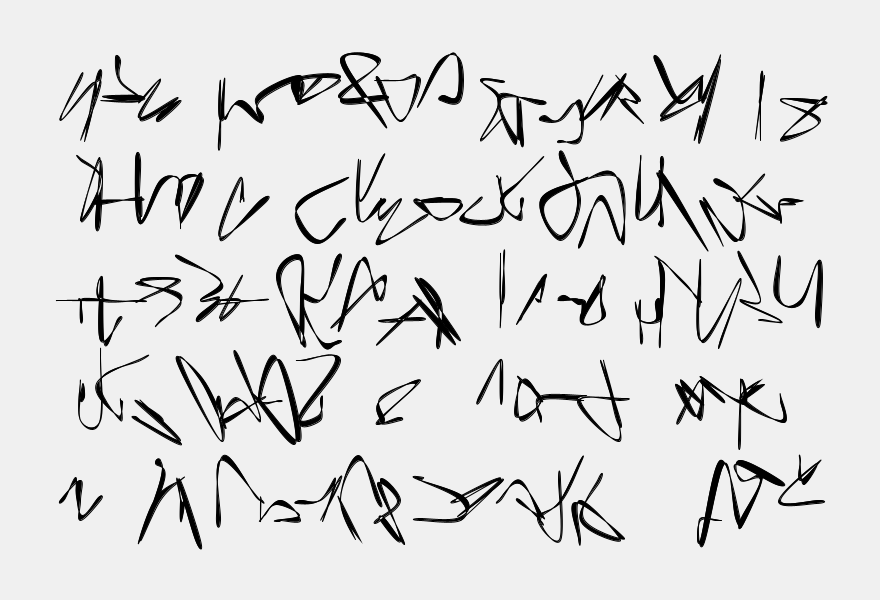
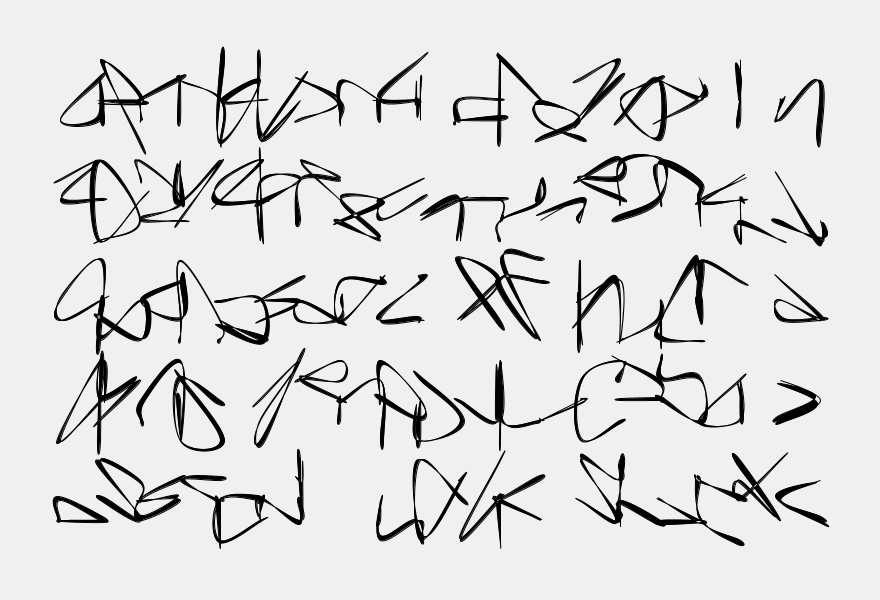
less options of x positions for random.choice()

Changed region(s): [[0.0614, 0.09, 0.9511, 0.93], [0.8591, 0.27, 0.8898, 0.3]]

diff --git a/2023/sketch_2023_01_14/sketch_2023_01_14.py b/2023/sketch_2023_01_14/sketch_2023_01_14.py
@@ -17,7 +17,7 @@ def draw():
     for _ in range(5):
         for _ in range(C):
             N = 5 # Num points
-            W = (-20, 0, 20)
+            W = (-20, 20)
             H = (-40, -20, -20, 0, 0, 0, 20, 20, 40)
             pts = [(choice(W), choice(H)) for _ in range(N)]
             V = 5 # range of random variation
